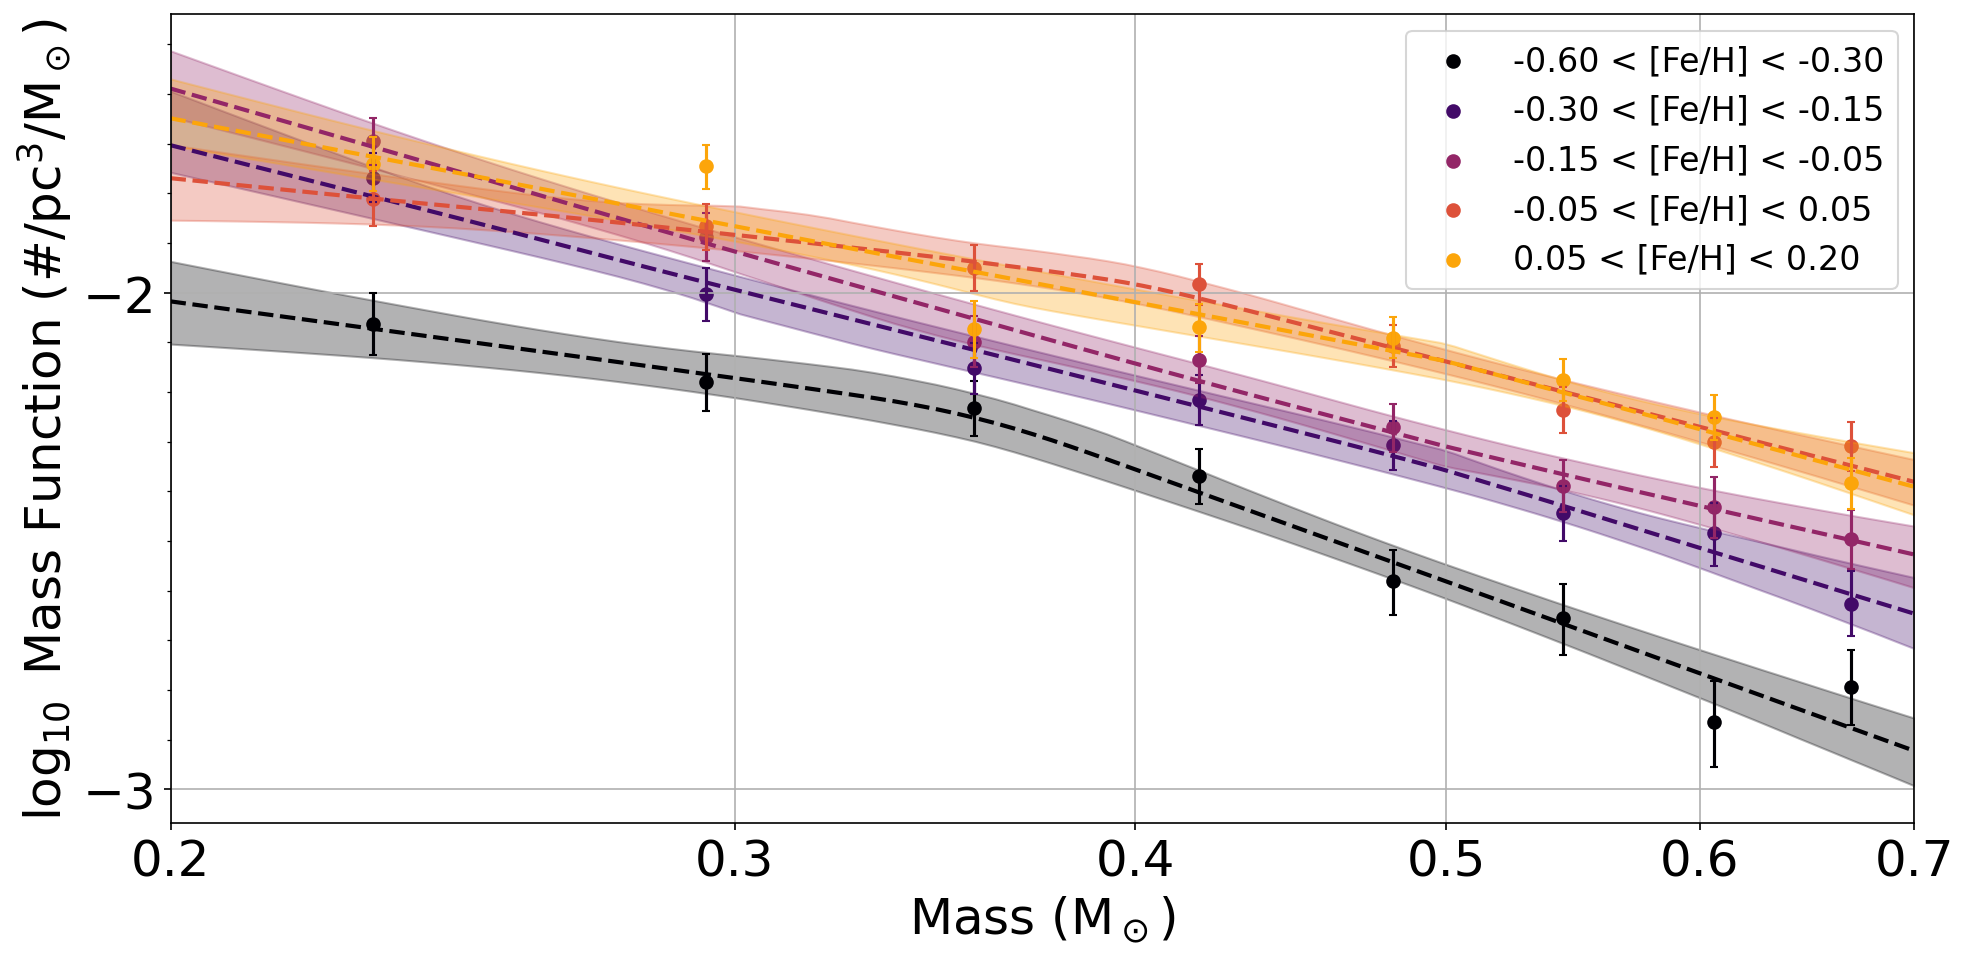
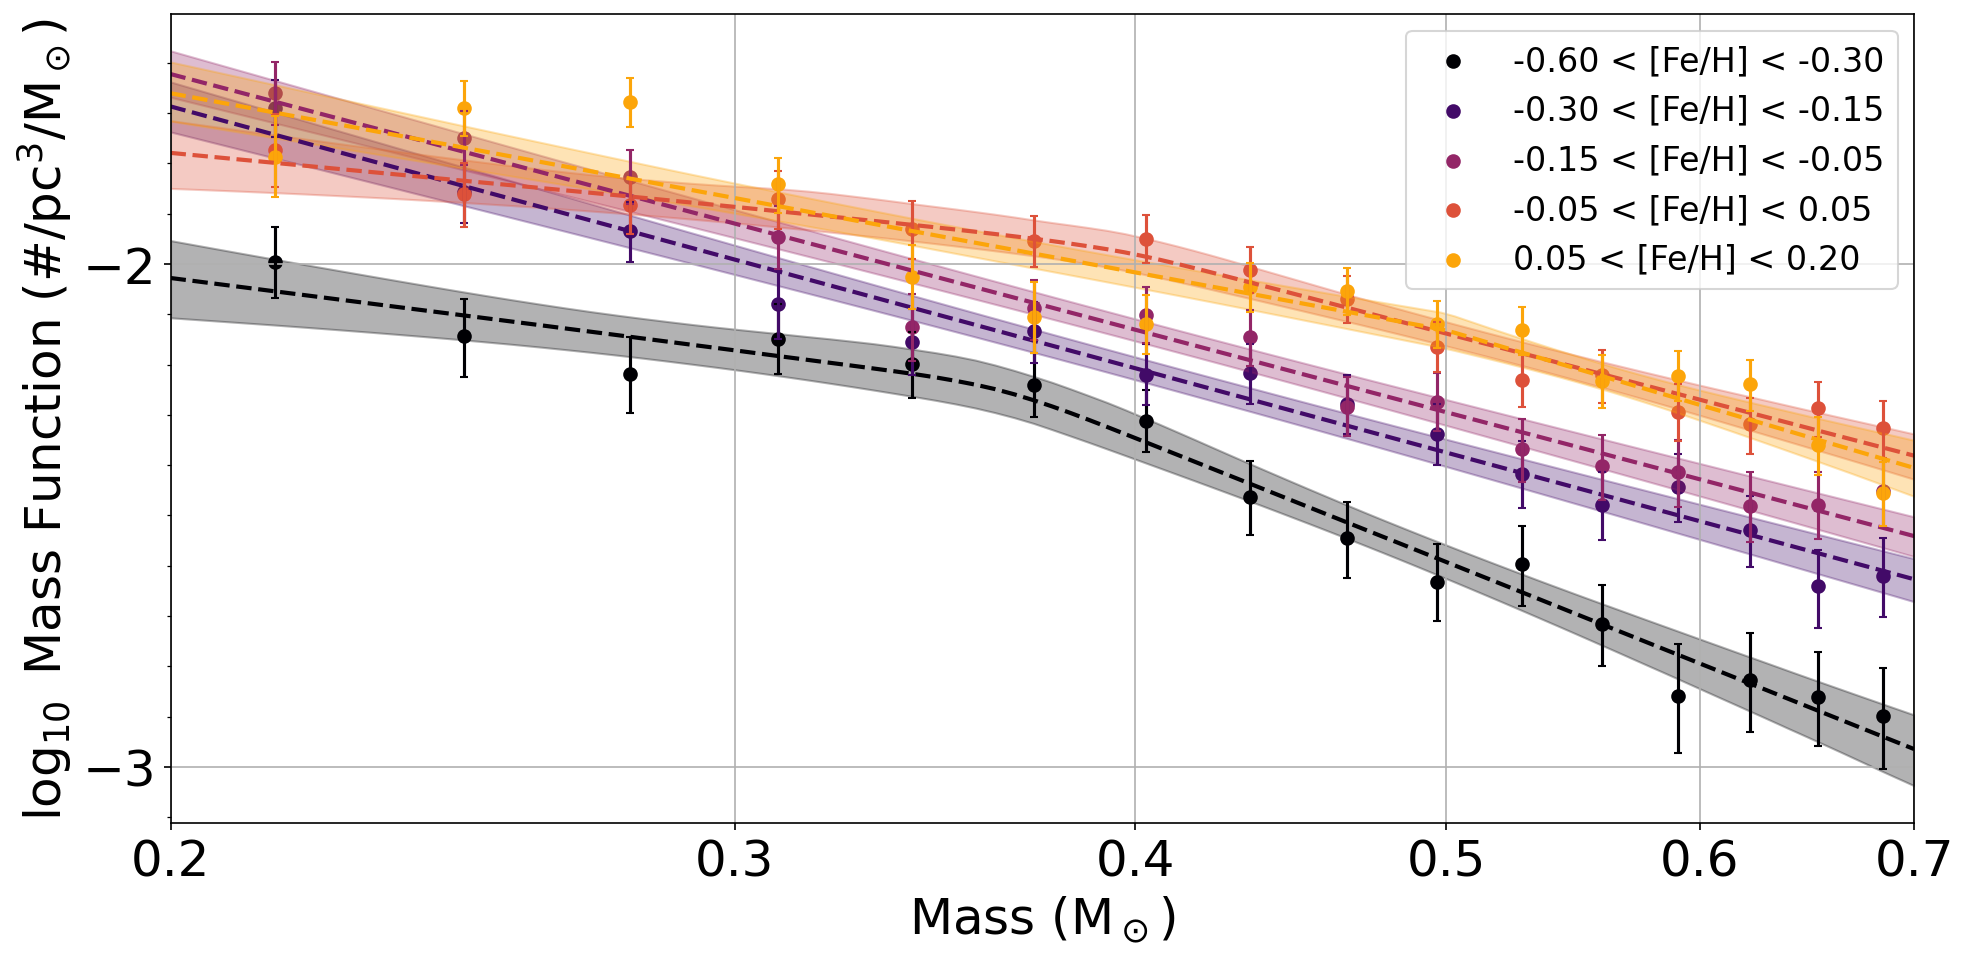
redo plot to include single vs broken

Changed region(s): [[0.062, 0.0605, 0.9914, 0.8165], [0.062, 0.7862, 0.0929, 0.8467], [0.3098, 0.0907, 0.3408, 0.121]]

diff --git a/notebooks/plot_mf_results.py b/notebooks/plot_mf_results.py
@@ -17,7 +17,17 @@ if __name__ == '__main__':
 
     p_samples_feh = [data[f'p_samples_feh_{i}'] for i in range(n_bins)]
     Nmasses       = [data[f'Nmasses_{i}']       for i in range(n_bins)]
-    params        = [data[f'params_{i}']        for i in range(n_bins)]
+    params        = [data[f'params_broken_{i}'] for i in range(n_bins)]
+    params_single = [data[f'params_single_{i}'] for i in range(n_bins)]
+    bic_broken    = [data[f'bic_broken_{i}']    for i in range(n_bins)]
+    bic_single    = [data[f'bic_single_{i}']    for i in range(n_bins)]
+    best_fit      = []
+
+    for i in range(n_bins):
+        if bic_single[i] - bic_broken[i] > 0:
+            best_fit.append('broken')
+        else:
+            best_fit.append('single')
 
     mass_bins = np.linspace(0.2, 0.7, Nmasses[0].shape[-1] + 1)
 
@@ -46,7 +56,10 @@ if __name__ == '__main__':
         
         
         # plot the fit
-        params_boot = params[i]
+        if best_fit[i] == 'broken':
+            params_boot = params[i]
+        else:
+            params_boot = params_single[i]
         x_cont = np.linspace(mass_bins[0], mass_bins[-1], 100)
         xi_boot = np.array([xi_from_params(params_boot[j], x_cont) for j in range(len(params_boot))])
         plt.plot(x_cont,
@@ -82,21 +95,31 @@ if __name__ == '__main__':
         for i in range(len(params)):
             midp = (fe_h_bins[i] + fe_h_bins[i + 1]) / 2
             if savename[pi - 1] != 'mb':
-                plt.scatter(midp, np.nanpercentile(params[i], 50, axis=0)[pi],
-                            c=colors_rgba[i])
-                plt.errorbar([midp], [np.nanpercentile(params[i], 50, axis=0)[pi]],
-                            yerr=np.diff(np.nanpercentile(params[i], [16, 50, 84], axis=0)[:, pi]).reshape((2, -1)),
-                            color=colors_rgba[i],
-                            fmt='None',
-                            xerr=[(fe_h_bins[i + 1] - fe_h_bins[i]) / 2])
+                if best_fit[i] == 'broken':
+                    plt.scatter(midp, np.nanpercentile(params[i], 50, axis=0)[pi],
+                                c=colors_rgba[i])
+                    plt.errorbar([midp], [np.nanpercentile(params[i], 50, axis=0)[pi]],
+                                yerr=np.diff(np.nanpercentile(params[i], [16, 50, 84], axis=0)[:, pi]).reshape((2, -1)),
+                                color=colors_rgba[i],
+                                fmt='None',
+                                xerr=[(fe_h_bins[i + 1] - fe_h_bins[i]) / 2])
+                else:
+                    plt.scatter(midp, np.nanpercentile(params_single[i], 50, axis=0)[1],
+                                c=colors_rgba[i], marker='^', s=50)
+                    plt.errorbar([midp], [np.nanpercentile(params_single[i], 50, axis=0)[1]],
+                                yerr=np.diff(np.nanpercentile(params_single[i], [16, 50, 84], axis=0)[:, 1]).reshape((2, -1)),
+                                color=colors_rgba[i],
+                                fmt='None',
+                                xerr=[(fe_h_bins[i + 1] - fe_h_bins[i]) / 2])
             else:
-                plt.scatter(midp, 10 ** np.nanpercentile(params[i], 50, axis=0)[pi],
-                            c=colors_rgba[i])
-                plt.errorbar([midp], [10 ** np.nanpercentile(params[i], 50, axis=0)[pi]],
-                            yerr=np.diff(10 ** np.nanpercentile(params[i], [16, 50, 84], axis=0)[:, pi]).reshape((2, -1)),
-                            color=colors_rgba[i],
-                            fmt='None',
-                            xerr=[(fe_h_bins[i + 1] - fe_h_bins[i]) / 2])
+                if best_fit[i] == 'broken':
+                    plt.scatter(midp, 10 ** np.nanpercentile(params[i], 50, axis=0)[pi],
+                                c=colors_rgba[i])
+                    plt.errorbar([midp], [10 ** np.nanpercentile(params[i], 50, axis=0)[pi]],
+                                yerr=np.diff(10 ** np.nanpercentile(params[i], [16, 50, 84], axis=0)[:, pi]).reshape((2, -1)),
+                                color=colors_rgba[i],
+                                fmt='None',
+                                xerr=[(fe_h_bins[i + 1] - fe_h_bins[i]) / 2])
         plt.grid()
         plt.ylabel(label[pi - 1])
         plt.xlabel('[Fe/H]')
